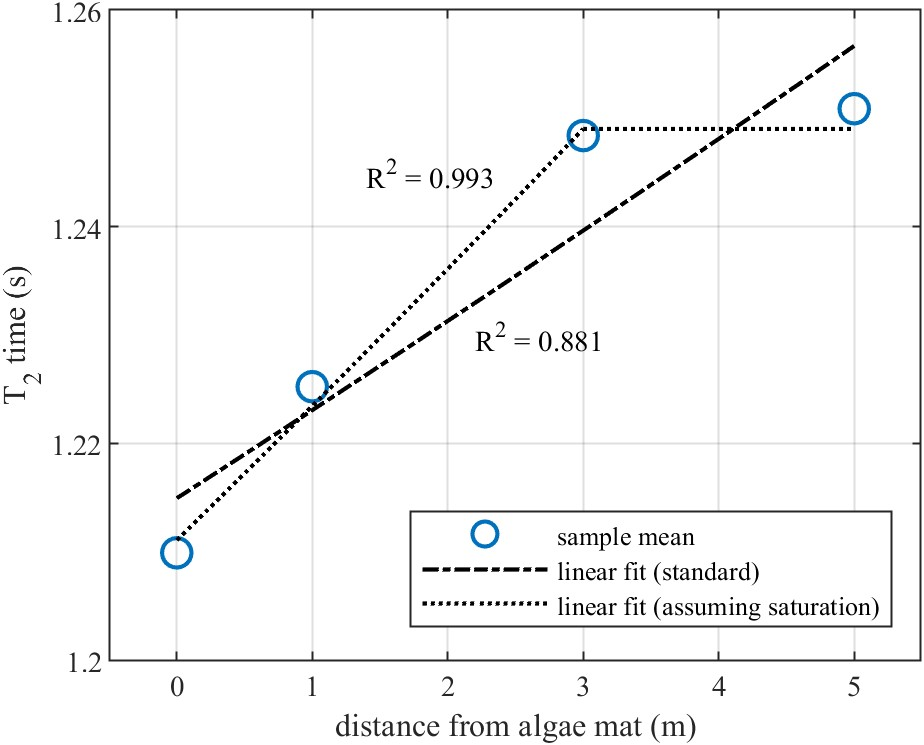
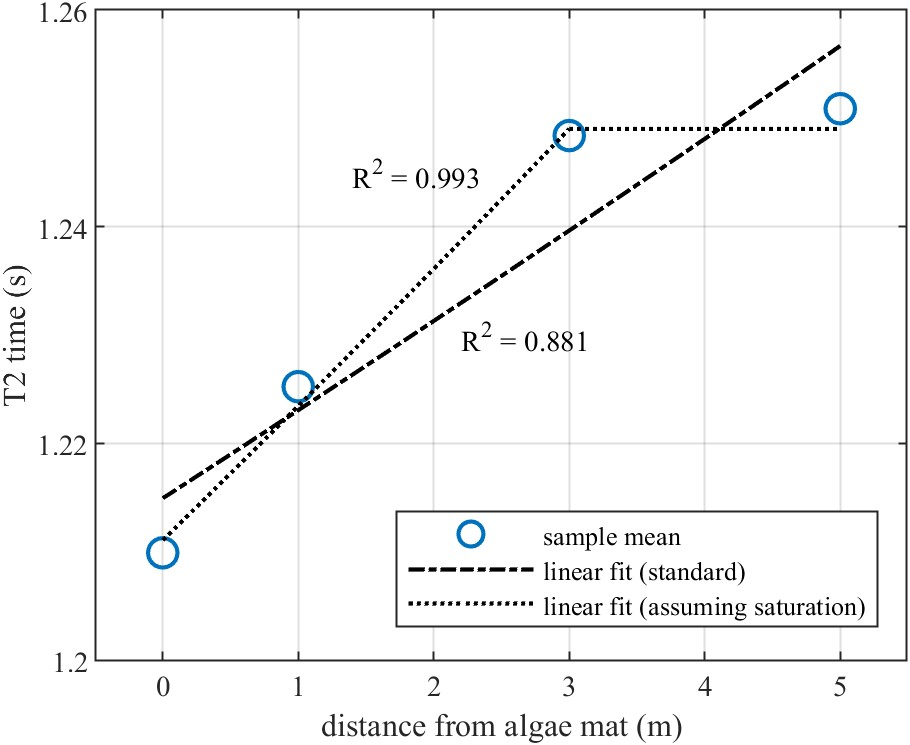
tiny figure change

diff --git a/data/new/analyzeData.m b/data/new/analyzeData.m
@@ -108,7 +108,7 @@ plot(d,1./yhat,'k-.','LineWidth',1)
 plot(d1,1./yhat1,'k:','LineWidth',1)
 plot(linspace(3,5,1000),1./yhat1(end)*ones(1,1000),'k:','LineWidth',1)
 xlabel('distance from algae mat (m)')
-ylabel('T_2 time (s)')
+ylabel('T2 time (s)')
 xlim([-0.5,5.5])
 xticks(0:1:5)
 yticks(1.2:0.02:1.26)
